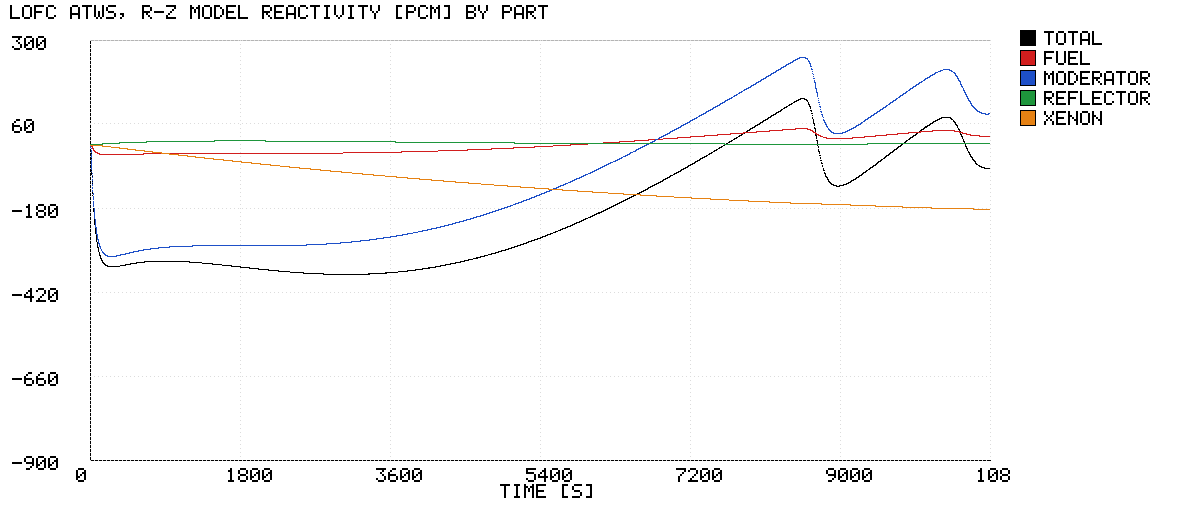
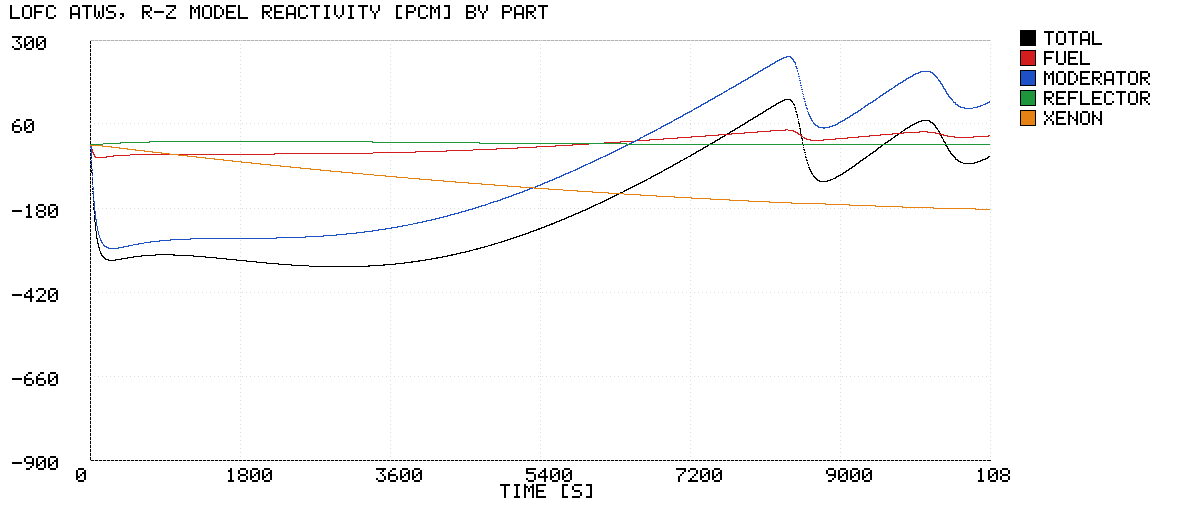
HTR-10 short-term power and CRW peak: results; re-measure the record under the new defaults (gh:#1174)
Against the predictions committed in c9c78b6fb (README Sec 8.4):
- ruled out: Lambda (KIN-LAMBDA-H06 -0.6 %), the delayed groups
  (KIN-DN-TEHO +0.3 %), and the dummy-pebble lag under the all-graphite
  moderator reading (-3.2 %, the energy argument: the reading moved 0.4 K).
- the corrected moderator reading (all pebble graphite) is what moves:
  LOFC P(100 s) 0.162 -> 0.170 (measured 0.204), 1 % at 296 s, LOFC
  re-criticality 7616 -> 7426 s, CRW 6041 -> 5771 s; CRW first peak
  158.4 -> 154.4 % at 22 s (measured 216/241 % at 30-35 s). Both
  short-term misses remain.
- MOD-OUTSIDE-FZ (dummy lag with the part B reading) gives 175 % at 32 s
  and 0.181; not adopted because it is closer (defaults fixed before the
  run). Which graphite carries -16.2 pcm/K is measurable with
  htr10_rmc::zones (follow-up).

Sec 9: the whole LOFC sensitivity set, mesh study and CRW set re-run
under the current defaults (full nee_soon suite); Sec 3 marked
CORRECTED with pointers; plots regenerated; unresolved items 1, 2, 4
updated; nee_soon CLAUDE.md status updated.

Claude-Session: https://claude.ai/code/session_01HxmCueofxcJNMntRMmjqoW

diff --git a/crates/nee_soon/verification_and_validation/htr10_rz_transients/README.md b/crates/nee_soon/verification_and_validation/htr10_rz_transients/README.md
@@ -144,6 +144,15 @@ buoyancy ablation in the appbuilder unit tests.
 
 ## 3. Results (2026-11-03, `cargo test --release -p nee_soon --lib htr10_th_transient`)
 
+> **CORRECTED 2026-11-03 (gh:#1173, gh:#1174): two defaults changed after
+> this section was written** (RPV-cavity air convection; the moderator
+> coefficient on all pebble graphite with a dummy-pebble node). The tables
+> of Sec 3 are the part B record as run; the same cases under the current
+> defaults are in **Sec 9** (headline: re-criticality ~~7616 s~~ 7426 s,
+> P(100 s) ~~0.162~~ 0.170, CRW first peak ~~158.4 %~~ 154.4 % at 22 s,
+> late power 109 kW unchanged). The plots in this folder show the current
+> base.
+
 ### 3.1 Initial state and natural circulation (TH only, power as input)
 
 | Quantity | R-Z (20 cm) | Lumped (part A) | Measured |
@@ -371,7 +380,13 @@ homogeneous bed gives fuel-pebble shells and dummy pebbles one
 temperature; in the plant the dummies (43 % of the mixed zone) heat only
 through contact, radiation and gas, so the moderator term lags the fuel.
 Predicted sign: slower fall and a later, higher CRW peak. Magnitude
-Unknown; it needs a two-temperature bed.
+Unknown; it needs a two-temperature bed. **TESTED 2026-11-03 (gh:#1174,
+Sec 8):** the two-temperature bed exists now (default); with the moderator
+read on all the pebble graphite the dummy lag moves P(100 s) by -3 % and
+the CRW peak by -2.6 points (an energy argument predicted ~0), so it is
+not the cause. It does act as stated (+12 %, CRW 175 % at 32 s) only if
+the coefficient leaves the fuel zones' graphite out (`MOD-OUTSIDE-FZ`).
+The audit found that reading in the part B model and replaced it.
 
 ### 3.5 Neutron source (item 4)
 
@@ -431,7 +446,15 @@ reflector rise matches. Plots: `rz_crw_power_short.png`,
    +15 s, late power +0 to +2 kW. **The hypothesis is ruled out as the
    cause; the gap stays open.** The largest movement seen is numerical:
    109 -> 142 kW of late power from 20 to 10 cm cells (Sec 3.3.1).
-2. Short-term fall and CRW peak (3.4): dummy-pebble lag hypothesis untested.
+2. ~~Short-term fall and CRW peak (3.4): dummy-pebble lag hypothesis untested.~~
+   **UPDATED 2026-11-03 (gh:#1174, Sec 8):** kinetics inputs audited
+   (`Lambda`, groups ruled out); moderator reading corrected to all pebble
+   graphite and the dummy lag modelled (both default). LOFC P(100 s)
+   0.162 -> 0.170 (measured 0.204); CRW first peak 158 -> 154 % at 22 s
+   (measured 216-241 % at 30-35 s). **Both misses remain.** Open: which
+   graphite the -16.2 pcm/K coefficient belongs to (MOD-OUTSIDE-FZ gives
+   175 % at 32 s; measurable with `htr10_rmc::zones`), the ex-core signal,
+   the decay-heat history.
 3. Riser loop and plena buoyancy not represented (3.1).
 4. ~~The 10 cm mesh's gas Picard does not converge (3.3).~~ **RESOLVED
    2026-11-03 (gh:#1175):** a floor in the convergence measure, not a
@@ -478,7 +501,9 @@ The runs also write the traces as CSV (`rz_*_trace.csv`,
 `rz_lofc_base_thermocouples.csv`) into this folder; `*.csv` is gitignored
 under `verification_and_validation/`, so they are regenerated, not
 committed. Wall time (4 cores): RZ-BASE 58 s; the sensitivity set ~10 min; CRW set
-~3 min; mesh check ~6 min (four meshes, gh:#1175).
+~3 min; mesh check ~6 min (four meshes, gh:#1175). Since gh:#1173 / gh:#1174 also
+`rz_cavity_convection_cases` (~10 min, Sec 7) and
+`rz_short_term_feedback_cases` (~12 min, Sec 8).
 
 ## 7. RPV-cavity natural convection (gh:#1173): predictions, written before the runs (2026-11-03)
 
@@ -681,3 +706,154 @@ physically consistent changes are predicted to move the LOFC the right
 way and the CRW peak the wrong way, and to close neither.** If the
 measured short-term power is an ex-core detector signal (Sec 3.4 (d)),
 none of this is testable against it.
+
+### 8.4 Results (2026-11-03, after the predictions above were committed in `c9c78b6fb`)
+
+`cargo test --release -p nee_soon --lib htr10_th_transient::tests_rz::rz_short_term_feedback_cases -- --nocapture`
+(20 cm, cavity convection ON; BASE = both new defaults; PARTB = both
+ablated, which reproduces the Sec 7 base to every digit).
+
+**LOFC** (relative fission power; measured from the digitised [C09] Fig 6):
+
+| case | 1 % | P 20 s | P 50 s | P 100 s | P 200 s | min rho | rho = 0 | first peak | mean P, last 30 min |
+|---|---|---|---|---|---|---|---|---|---|
+| **BASE** | **296 s** | 0.870 | 0.446 | **0.170** | 0.036 | -348 pcm @ 3000 s | **7426 s** | 20.3 % @ 8530 s | 109 kW |
+| DUMMY-IN-CELL | 296 s | 0.877 | 0.461 | 0.176 | 0.036 | -353 @ 3050 | 7466 s | 21.2 % @ 8560 | 109 kW |
+| MOD-OUTSIDE-FZ | 287 s | 0.877 | 0.482 | 0.181 | 0.034 | -393 @ 2995 | 7746 s | 26.0 % @ 8835 | 88 kW |
+| PARTB (Sec 7 base) | 288 s | 0.855 | 0.433 | 0.162 | 0.033 | -372 @ 3085 | 7631 s | 22.4 % @ 8720 | 109 kW |
+| KIN-LAMBDA-H06 | 296 s | 0.865 | 0.442 | 0.169 | 0.036 | -346 @ 3005 | 7416 s | 20.0 % @ 8505 | 108 kW |
+| KIN-DN-TEHO | 297 s | 0.870 | 0.446 | 0.171 | 0.036 | -348 @ 3000 | 7431 s | 20.3 % @ 8530 | 109 kW |
+| KIN-DN-1G | 217 s | 0.902 | 0.523 | 0.167 | 0.015 | -346 @ 3005 | 7416 s | 22.9 % @ 8660 | 115 kW |
+| *measured* | ~330 s | 0.905 | 0.496 | **0.204** | 0.047 | - | 2520 / 4075 s | 24.6 % @ 4395 s | ~180 kW |
+
+**CRW:**
+
+| case | first peak | P 30 s | P 35 s | to decay level | rho = 0 | mean P, last 30 min |
+|---|---|---|---|---|---|---|
+| **BASE** | **154.4 % @ 22 s** | 1.485 | 1.408 | 286 s | **5771 s** | 125 kW |
+| DUMMY-IN-CELL | 157.0 % @ 23 s | 1.537 | 1.470 | 279 s | 5901 s | 126 kW |
+| MOD-OUTSIDE-FZ | **175.0 % @ 32 s** | 1.746 | 1.731 | 254 s | 6511 s | 136 kW |
+| PARTB (Sec 7 base) | 158.4 % @ 23 s | 1.547 | 1.477 | 272 s | 6056 s | 137 kW |
+| KIN-LAMBDA-H06 | 155.6 % @ 21 s | 1.483 | 1.399 | 286 s | 5751 s | 126 kW |
+| KIN-DN-TEHO | 154.4 % @ 22 s | 1.485 | 1.408 | 286 s | 5771 s | 125 kW |
+| KIN-DN-1G | 139.3 % @ 31 s | 1.393 | 1.379 | 232 s | 5751 s | 137 kW |
+| *measured* | 216 % @ 35 s [H06] / 241 % @ 30 s [J09] | - | - | 810 s | 2400 / ~3400 s | ~200 kW |
+
+**Against the predictions of Sec 8.3:**
+
+| Case | Predicted | Measured | Verdict |
+|---|---|---|---|
+| KIN-LAMBDA-H06 | P(100 s) < 0.5 %; CRW < 1 point | -0.6 %; +1.2 points | marginal miss (still negligible) |
+| KIN-DN-TEHO | +-3 %; < 3 points | +0.3 %; 0.0 points | met |
+| KIN-DN-1G | P(100 s) lower by 10-40 % | -2.2 % (but P(200 s) -59 %, 1 % at 217 s); CRW -15 points, 9 s later | miss: the one-group set crosses the six-group curve near 100 s; not a candidate either way |
+| MOD-ALLGRAPHITE alone (DUMMY-IN-CELL vs PARTB) | P(100 s) +3 to +12 %; CRW peak -3 to -10 %; rho = 0 +-150 s | **+8.6 %**; **-1.4 points** (-0.9 %); -165 s (LOFC), -155 s (CRW) | met; CRW sign met, size a miss (smaller); re-criticality just outside |
+| DUMMY-LAG, all-graphite (BASE vs DUMMY-IN-CELL) | +-3 %; +-3 points; +-150 s | -3.2 %; -2.6 points; -40 s / -130 s | met (P(100 s) at the edge) |
+| DUMMY-LAG, part B reading (MOD-OUTSIDE-FZ vs PARTB) | +10 to +30 %; +10 to +30 points, 2-8 s later | +11.8 %; **+16.6 points, 9 s later** | met (timing just outside) |
+| Net new base | P(100 s) 0.167-0.182; 1 % 293-308 s; CRW 140-155 % @ 21-24 s; rho = 0 and late power +-150 s / +-5 kW | **0.170; 296 s; 154.4 % @ 22 s**; rho = 0 **-205 s** (LOFC) / **-285 s** (CRW); late power 0 / **-12 kW** (CRW) | short term met; re-criticality miss (larger, toward the measurement); CRW late power miss (away) |
+
+**The energy argument, checked.** At 100 s into the LOFC the moderator
+reading is 591.00 degC with the dummy node and 591.43 degC without it
+(0.4 K, 7 pcm): the dummy lag does not move the all-graphite moderator
+temperature, as argued. What it moves is the fuel term (-36.9 against
+-25.9 pcm): with the dummies lagging, the fuel zones run hotter (597.3
+against 592.2 degC). Under the part B reading the same lag moves the
+moderator reading by 2.5 K (588.5 degC).
+
+**Reading it.**
+- **Ruled out as causes:** `Lambda` (< 1 %), the delayed-group set (the
+  Keepin and `teh-o-prke` U-235 sets agree to 0.3 %; one group is not
+  physical), and the dummy-pebble lag under the all-graphite reading
+  (< 3 %, and the wrong way).
+- **What the corrected physics does:** reading the moderator coefficient
+  on all the pebble graphite takes P(100 s) from 0.162 to **0.170**
+  (measured 0.204: ~20 % of the gap closed), the 1 % time from 288 to
+  296 s (measured ~330 s), and brings the LOFC re-criticality 205 s and
+  the CRW's 285 s earlier. It lowers the CRW first peak slightly, 158.4 ->
+  **154.4 %** (measured 216-241 %), still at 22 s against 30-35 s. **Both
+  short-term misses remain.**
+- **The one case that moves the CRW peak towards the measurement is
+  MOD-OUTSIDE-FZ** (the dummy lag with the part B reading: 175 % at
+  32 s, and P(100 s) 0.181). It gets there by leaving the fuel zones'
+  matrix, a third of the pebble graphite, out of the moderator. **It is
+  not adopted because it is closer** (the defaults were fixed in Sec 8.2
+  before the run). Whether [T1]'s -16.2 pcm/K belongs to all the pebble
+  graphite or mostly to the dummies and shells is a neutronics question
+  this record cannot settle; it can be settled with the workspace's own
+  Monte Carlo model: `nee_soon::htr10_rmc::zones` already separates the
+  fuel-pebble and moderator-pebble temperatures, so a `ParametricStudy`
+  can measure the coefficient of each (follow-up).
+- **Still untested:** the measured short-term power is an ex-core signal
+  (3.4 (d)); the bed heat capacity; the decay heat's saturated-history
+  assumption (kinetics.rs); the Tab 2.60 reactivity shape.
+
+## 9. The record re-measured under the current defaults (2026-11-03, after gh:#1173-#1175)
+
+`cargo test --release -p nee_soon --lib --tests -- --nocapture` (the full
+suite), with the defaults of gh:#1173 (cavity convection) and gh:#1174
+(all-graphite moderator reading, dummy-pebble node). The tables of Sec 3
+are the gh:#1151 part B record and stay as written; the plots in this
+folder (`rz_lofc_*.png`, `rz_crw_*.png`) were regenerated by this run and
+show the current base.
+
+**RZ-BASE** (20 cm): 1 % at **296 s** (gate 330 +- 120 s: passes; part B
+288 s); minimum -348 pcm at 3000 s; re-criticality **7426 s** (part B
+7616 s; measured 2520 / 4075 s); power back above 1 % at 8338 s; first
+peak 20.3 % at 8530 s (measured 24.6 % at 4395 s); mean power, last
+30 min, **109 kW** (measured ~180 kW). Short term, model / measured:
+10 s 0.987 / 0.989; 20 s 0.870 / 0.905; 50 s 0.446 / 0.496; 100 s
+**0.170** / 0.204; 200 s 0.036 / 0.047; 300 s 0.0095 / 0.0139; 400 s
+0.0029 / 0.0056. RCCS + heads 111.2 kW at 0, 102.3 kW at 3 h.
+Thermocouples: RMS over all 17 traces and bins **32.2 K** (part B 32.4 K),
+mean +7.4 K; TR1&TR4 274 -> 493 degC (+219 K; measured +173 K); side
+reflector within 45 K everywhere.
+
+**LOFC sensitivity set** (one change each from RZ-BASE):
+
+| case | to 1 % | min rho | rho = 0 | power back > 1 % | first peak | mean P, last 30 min |
+|---|---|---|---|---|---|---|
+| RZ-BASE | 296 s | -348 pcm @ 3000 s | 7426 s | 8338 s | 20.3 % @ 8530 s | 109 kW |
+| NC-OFF | 301 s | -320 @ 211 s | 5041 s | 6724 s | 5.7 % @ 7020 s | 70 kW |
+| SRC-OFF | 296 s | -348 @ 3000 s | 7426 s | 9448 s | 122.6 % @ 9510 s | 201 kW |
+| SRC-INTRINSIC | 296 s | -348 @ 3000 s | 7426 s | 8692 s | 38.3 % @ 8825 s | 90 kW |
+| FUEL-QS | 307 s | -332 @ 3030 s | 7346 s | 8261 s | 18.5 % @ 8455 s | 108 kW |
+| REFL-SIDE | 300 s | -322 @ 232 s | 6641 s | 7571 s | 19.8 % @ 7765 s | 134 kW |
+| BED-ZBS | 303 s | -315 @ 227 s | 5136 s | 6068 s | 20.5 % @ 6260 s | 166 kW |
+| BYP-G02 | 297 s | -342 @ 2945 s | 7326 s | 8233 s | 20.5 % @ 8425 s | 110 kW |
+| BYP-NOLEAK | 292 s | -398 @ 3310 s | 8241 s | 9187 s | 18.2 % @ 9385 s | 119 kW |
+| TR-SPEC | 306 s | -313 @ 2865 s | 7411 s | 8373 s | 20.2 % @ 8580 s | 100 kW |
+| KIN-ALPHA-G02-EQ | 387 s | -249 @ 3490 s | 9336 s | 10716 s | 3.1 % @ 10800 s | 36 kW |
+| XE-OFF | 298 s | -325 @ 236 s | 6356 s | 7281 s | 20.1 % @ 7475 s | 157 kW |
+| DT-HALF (0.5 / 2.5 s) | 297 s | -348 @ 2980 s | 7373 s | 8280 s | 19.8 % @ 8470 s | 109 kW |
+| CAVITY-NC-OFF (gh:#1173) | 297 s | -346 @ 2990 s | 7416 s | 8325 s | 20.2 % @ 8515 s | 109 kW |
+| DUMMY-IN-CELL / MOD-OUTSIDE-FZ / PARTB (gh:#1174) | Sec 8.4 | | | | | |
+
+**Mesh** (`rz_lofc_mesh_check`): 30 / 20 / 15 / 10 cm: re-criticality
+7426 / 7426 / 7696 / **8036 s**; minimum -348 / -348 / -385 / -424 pcm;
+first peak 20.3 / 20.3 / 21.4 / 22.7 %; mean power, last 30 min,
+108 / 109 / 111 / **164 kW**; 1 % at 296 / 296 / 295 / 295 s. The same
+picture as Sec 3.3.1: converged in the short term, not converged after
+the minimum (+610 s on the re-criticality from 20 to 10 cm; the steps
++270 s then +340 s do not shrink). The late-power metric jumps at 10 cm
+(111 -> 164 kW) because the last 30 min then fall on a different part of
+the post-return oscillation: read it with the re-criticality, not alone.
+
+**CRW set:**
+
+| case | first peak | to decay level | min rho | re-criticality | re-criticality peak | P at 7200 s | mean P, last 30 min | TR1&TR4 rise at 2 h |
+|---|---|---|---|---|---|---|---|---|
+| CRW-BASE | **154.4 % @ 22 s** (5034 kW; 170.6 % of 3000 kW) | 286 s | -276 pcm @ 300 s | **5771 s** | 19.4 % @ 6930 s | 138 kW | 125 kW | +224 K |
+| CRW-TRIP9 | 142.8 % @ 20 s | 288 s | -269 @ 304 s | 5736 s | 19.2 % @ 6900 s | 117 kW | 125 kW | +224 K |
+| CRW-SRC-OFF | 154.4 % @ 22 s | 286 s | -276 @ 300 s | 5771 s | 82.4 % @ 7680 s | 35 kW | 131 kW | +217 K |
+| CRW-NC-OFF | 154.3 % @ 22 s | 290 s | -264 @ 264 s | 2816 s | 8.9 % @ 4415 s | 176 kW | 77 kW | +9 K |
+
+Measured: first peak 216 % at 35 s [H06] / 241 % at 30 s [J09]; decay
+level 810 s; re-criticality 2400 s [H06] / ~3400 s [T1]; long-term
+~200 kW; top reflector +215 K [H06].
+
+**What changed from part B, in one line each:** the short term moved
+towards the plant in the LOFC (P(100 s) 0.162 -> 0.170) and slightly away
+in the CRW (158 -> 154 %); the re-criticality came 190 s (LOFC) and 270 s
+(CRW) earlier, still ~3400 s late; the late power did not move (LOFC
+109 kW) or fell (CRW 135 -> 125 kW); the thermocouples are unchanged
+(RMS 32.2 K). The miss list of Sec 4 stands, with items 1, 2 and 4
+updated.

diff --git a/crates/nee_soon/CLAUDE.md b/crates/nee_soon/CLAUDE.md
@@ -216,7 +216,14 @@ the C09 thermocouple probes. Record:
 short-term shutdown, the top-reflector heat-up and the side-reflector
 thermocouples agree; **re-criticality ~3400 s late and long-term power
 ~40 % low in both tests** (model heat sink ~100 kW against ~180 kW); CRW
-first peak 158 % against 216/241 %. Not validated.
+first peak 158 % against 216/241 %. Not validated. **UPDATED 2026-11-03
+(gh:#1173-#1175):** the gas Picard converges on the 10 cm mesh, and the
+20 cm base is **not mesh-converged** (10 cm: re-criticality +590 s, late
+power +33 kW); RPV-cavity air convection is on by default and adds ~5 kW
+(not the heat-sink gap); the moderator coefficient reads all pebble
+graphite and the dummy pebbles have their own node (both default): LOFC
+re-criticality 7426 s, P(100 s) 0.170 (measured 0.204), CRW first peak
+154 % at 22 s. Still not validated.
 
 **LEAPR is the default for graphite and SiC (maintainer, 2026-11-03: "just use
 LEAPR by default").** `Htr10DataConfig::default().thermal_laws` is
